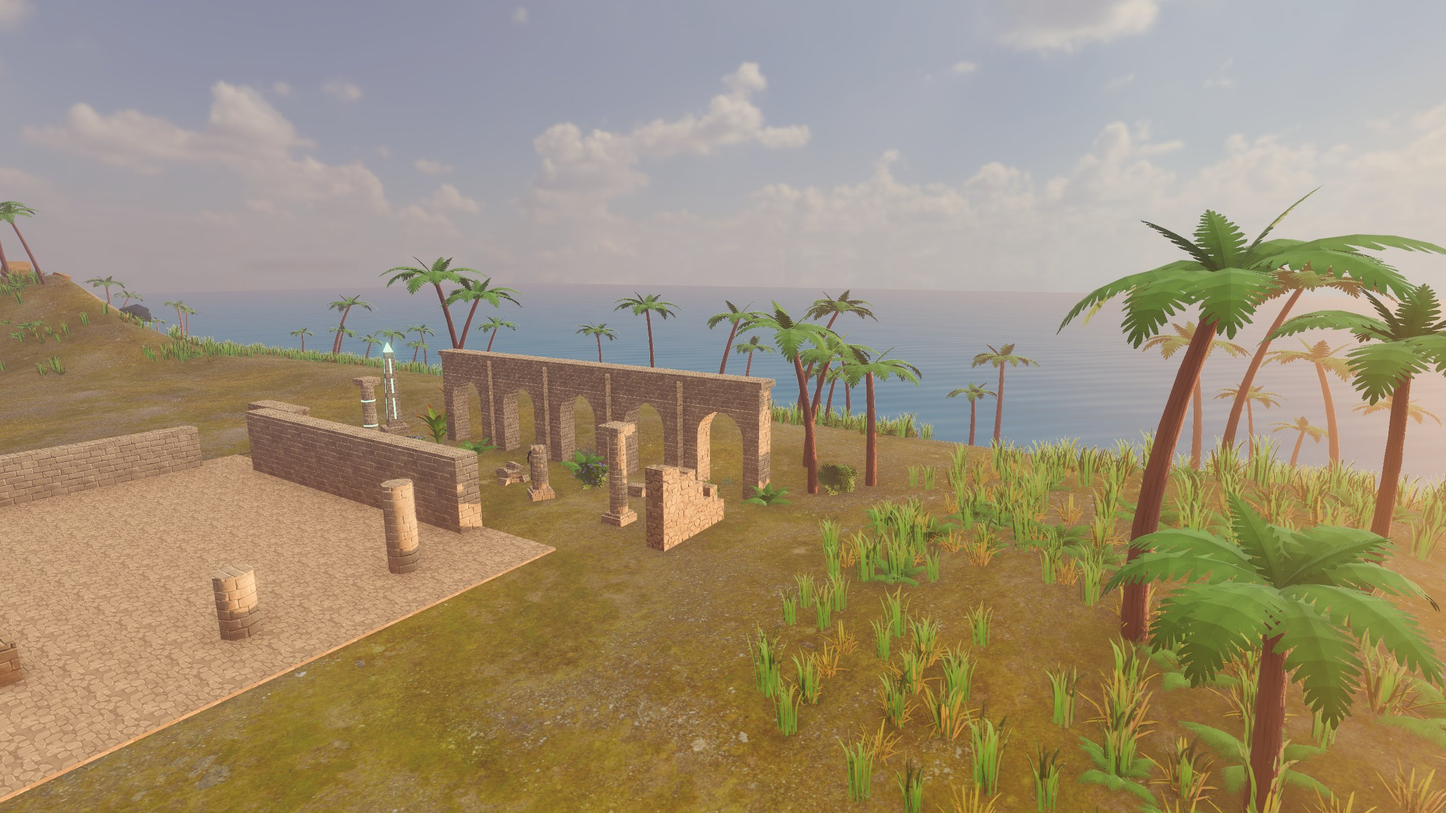
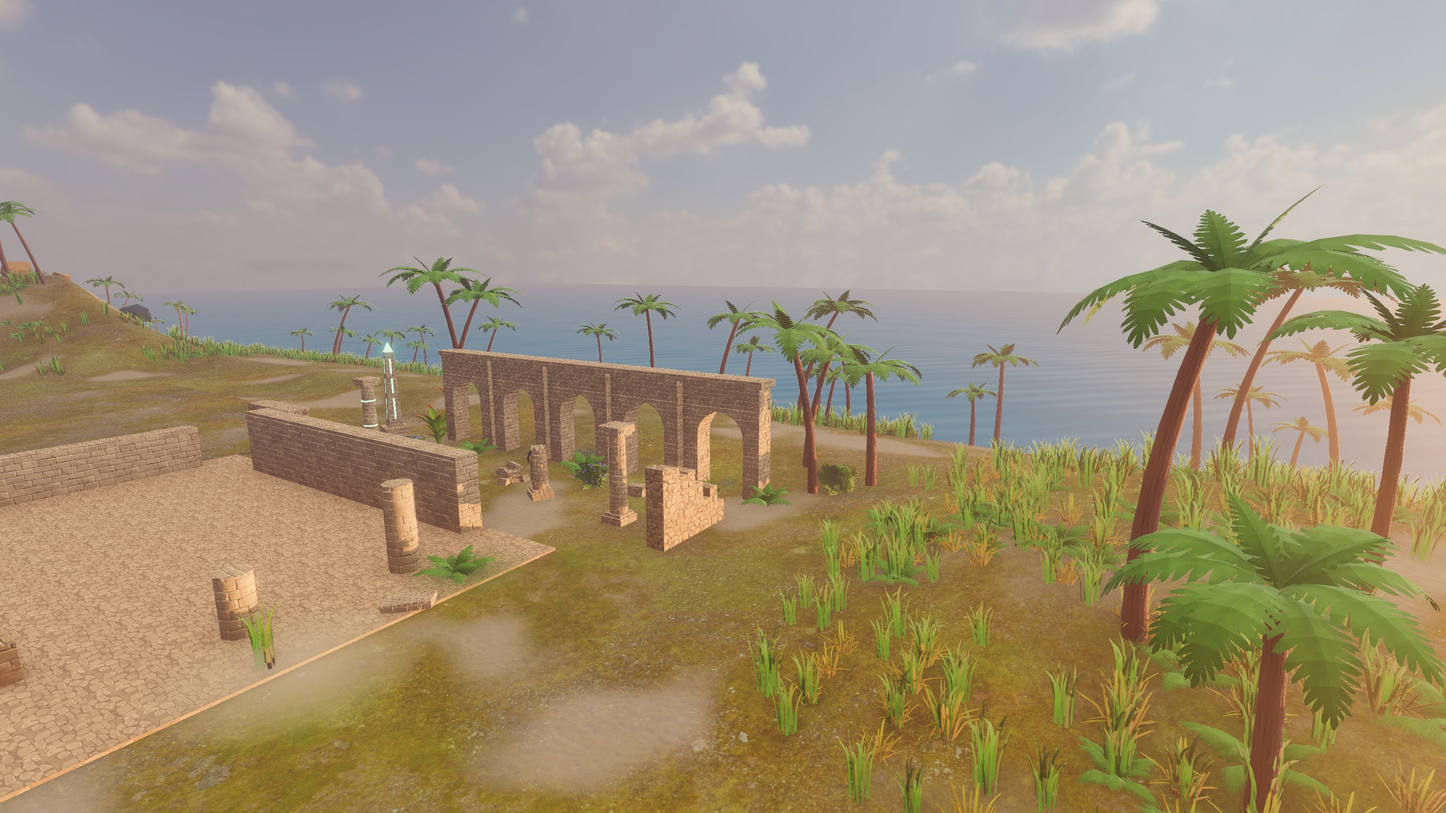
Края площадки руин и пятна на грунте террасы
- у краёв пола: декали песка и травы, обломанные плиты, трава, кусты, папоротники (только в мире);
- на ровном грунте пятна сочной травы и песчаные проплешины по крупному шуму;
- кадры cape-ruins, hero-terrace переснятые, новый ruins-edge.

Claude-Session: https://claude.ai/code/session_01Vp2x9VFjxUHLVnSoBuqq9B

diff --git a/docs/engineering/game.md b/docs/engineering/game.md
@@ -83,7 +83,8 @@ Godot 4.7, GDScript со статической типизацией. Проек
   - AgX, экспозиция 1,15; SSAO и SSIL; glow от 1,1 — светятся магико-тех детали;
   - дымка: туман с тёплым розово-сиреневым оттенком и воздушной перспективой; объёмный туман низкой плотности с тёплым альбедо и сильным рассеянием вперёд — лучи сквозь арки и кроны против солнца;
   - цветокоррекция: контраст 1,1, насыщенность 1,2, тёплая кривая `GradientTexture1D`;
-  - трава рельефа подкрашена в тёплую оливу, песок — в `#E8D3A6` (`grass_tint`, `sand_tint` шейдера рельефа).
+  - трава рельефа подкрашена в тёплую оливу, песок — в `#E8D3A6` (`grass_tint`, `sand_tint` шейдера рельефа);
+  - на ровном грунте пятна по крупному шуму (`patch_tex`, шаг ~10 м): сочная трава и песчаные проплешины. Это только вид: правило грунта `ground_of` их не различает.
 - **Море** (`world/sea.tscn`) — плоскость 1024 м на `WorldTerrain.SEA_Y`, 256 × 256 квадов. Шейдер:
   - толщина воды — по буферу глубины: бирюза `#3FC1C9` на мелком → синева `#1D6F8C` к 6 м;
   - на мелком сквозь воду видно дно;
@@ -104,7 +105,7 @@ Godot 4.7, GDScript со статической типизацией. Проек
   - полоса ±0,4 м вокруг ровного грунта руин пропускается, чтобы растения не пробивали пол;
   - растут только на вокселях поверхности и камня, выкопанная земля не зарастает.
 - **Мелководье** (`world/shallows.gd`, TER-1.6): узел после героя в `world.tscn`. Если герой в бухте (за линией берега генератора) встал на дно глубже 1 м под уровнем моря, он возвращается туда, где стоял мельче, и теряет горизонтальную скорость — как упёрся в стену. Озёр у обрыва это не касается.
-- **Руины над бухтой** (`world/decor.tscn`) — модули песчаника на ровном грунте у южного края площадки (z 13–23): акведук из пяти арок, колонны, светящиеся обелиск и панель, обломки, лианы, пальмы. `decor.gd` при запуске даёт модулям руин коллизию по их сетке (`create_trimesh_collision`, слой 1): сквозь арки и колонны не пройти, на обломки можно запрыгнуть. У растений коллизий нет.
+- **Руины над бухтой** (`world/decor.tscn`) — модули песчаника на ровном грунте у южного края площадки (z 13–23): акведук из пяти арок, колонны, светящиеся обелиск и панель, обломки, лианы, пальмы. У краёв пола площадки — декали песка и травы, обломанные плиты, трава, кусты и папоротники; они стоят только по краю пола, за пределами мест, где спеки передвижения ставят героя, и только в мире. `decor.gd` при запуске даёт модулям руин коллизию по их сетке (`create_trimesh_collision`, слой 1): сквозь арки и колонны не пройти, на обломки можно запрыгнуть. У растений коллизий нет.
 
 ## Спеки и тесты
 
